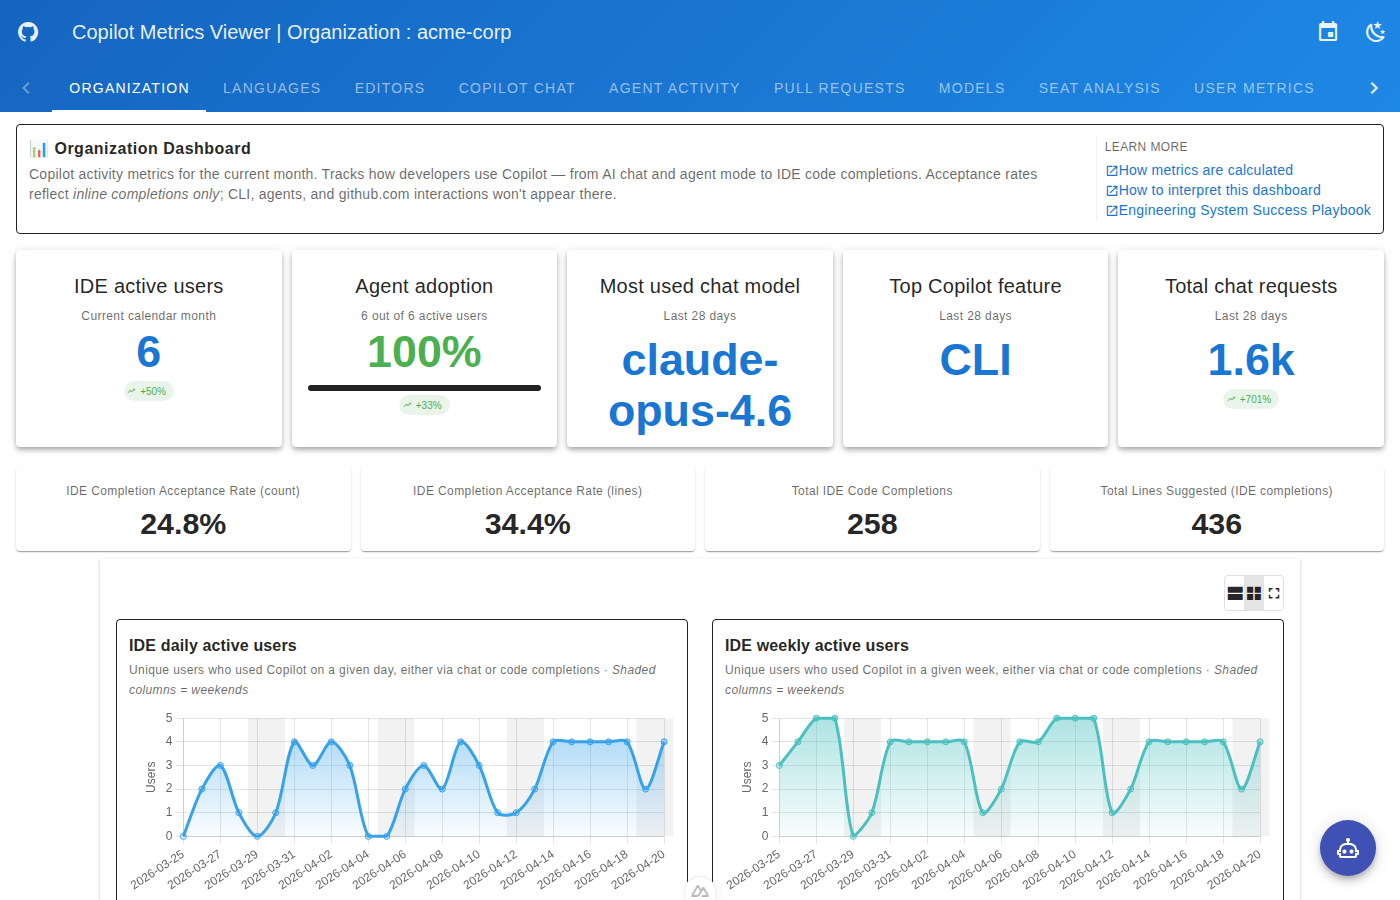
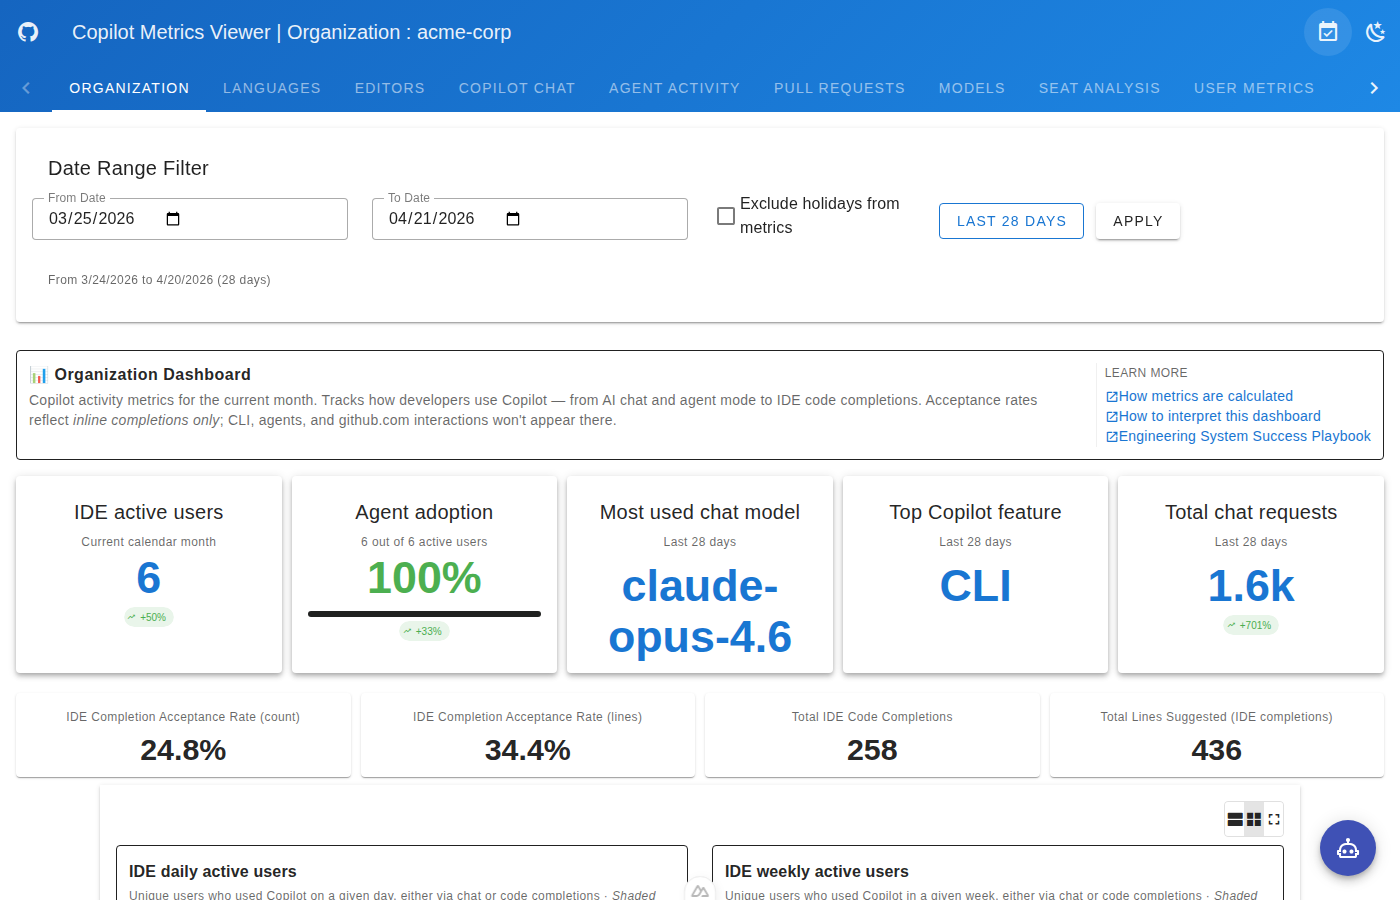
docs: refresh screenshots — models tab rename, feature usage & active users charts, date range filter
- Rename github-com-tab → models-tab, remove expanded screenshot
- main-metrics-dashboard: full page org tab
- Total_suggestions_count: now shows Feature Usage Over Time chart
- Acceptance_rate_bycount: now shows Active Users Over Time chart
- date-range-filter: now shows picker open
- Update README section titles and descriptions to match

diff --git a/README.md b/README.md
@@ -73,15 +73,11 @@ In **Historical mode** (with PostgreSQL), the User Metrics tab also displays per
 <p align="center">
   <img width="800" alt="Per-User Metrics" src="./images/user-metrics.png">
 </p>
-### GitHub.com Integration & Model Analytics
-View comprehensive statistics for GitHub.com features including Chat, PR Summaries, and detailed model usage analytics. Each section provides expandable details showing model types, editors, and usage patterns.
+### Models Tab
+View model usage analytics including model adoption over time, chat model distribution, and usage per chat mode (Ask, Agent, Edit, Inline).
 
 <p align="center">
-  <img width="800" alt="GitHub.com Tab" src="./images/github-com-tab.png">
-</p>
-
-<p align="center">
-  <img width="800" alt="Model Usage Details" src="./images/github-com-models-expanded.png">
+  <img width="800" alt="Models Tab" src="./images/models-tab.png">
 </p>
 
 ### CSV Export Functionality
@@ -102,17 +98,17 @@ Here are the key metrics visualized in these charts:
   <img width="800" alt="Key Metrics Overview" src="./images/main-metrics-dashboard.png">
 </p>
 
-1. **Acceptance Rate:** This metric represents the ratio of accepted lines and suggestions to the total suggested by GitHub Copilot. This rate is an indicator of the relevance and usefulness of Copilot's suggestions. However, as with any metric, it should be used with caution as developers use Copilot in many different ways (research, confirm, verify, etc., not always "inject").
+1. **Active Users Over Time:** Tracks daily, weekly, and monthly active users across all Copilot features — IDE completions, chat, agent mode, CLI, and PR summaries.
 <p align="center">
-  <img width="800" alt="image" src="./images/Acceptance_rate_bycount.png">
+  <img width="800" alt="Active Users Over Time" src="./images/Acceptance_rate_bycount.png">
 </p>
 
-2. **Total Suggestions:** This chart illustrates the total number of code suggestions made by GitHub Copilot. It offers a view of the tool's activity and its engagement with users over time.
-
-3. **Total Acceptances:** This visualization focuses on the total number of suggestions accepted by users.
+2. **Feature Usage Over Time:** Shows user-initiated interactions per feature per day, covering IDE chat, agent mode, edit mode, inline chat, CLI, PR summaries, and more.
 <p align="center">
-  <img width="800" alt="image" src="./images/Total_suggestions_count.png">
+  <img width="800" alt="Feature Usage Over Time" src="./images/Total_suggestions_count.png">
 </p>
+
+3. **Code Completions:** Tracks total inline code suggestions shown and accepted over time.
 
 4. **Total Lines Suggested:** Showcases the total number of lines of code suggested by GitHub Copilot. This gives an idea of the volume of code generation and assistance provided.
 
